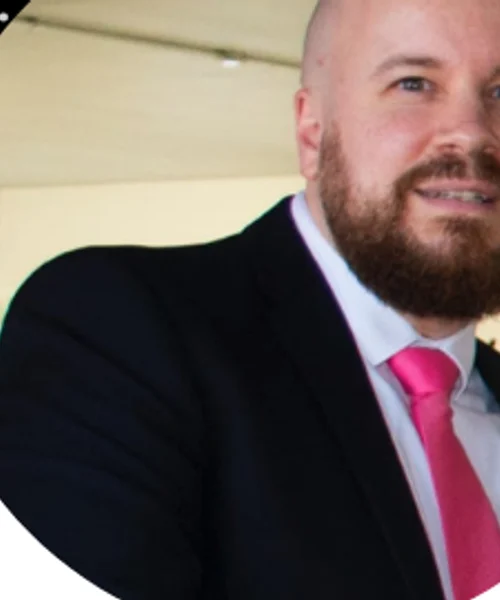
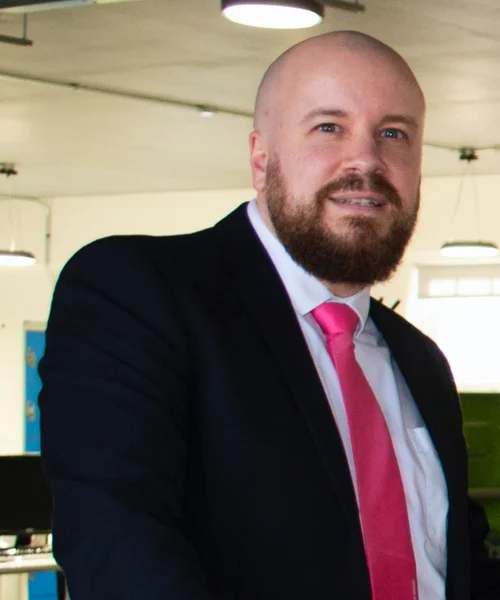
Steve natural office photo, Sana recentered, Andrew/Rob contain, wide entries wider
Steve — swapped to the natural office photo (/tmp/gv-photos/steve.jpg,
pink tie, office bg) with sharp attention crop so his face is centered
and unclipped. The banner extract was cropping half his face.

Sana — regenerated the source extract centered on her face
(left: 625, top: 785, 400x400) instead of the previous left-of-frame
crop. She now sits centered in the card.

Andrew + Rob — added fit: "contain" so their whole face + shoulders
show inside the desktop card (was cover, cropping heads). Andrew also
uses pos: "center top" so the fit anchors his head high.

Reece and other wide entries (Vish, Kieran, Jaz) — new .slide-wide
class on the article. On desktop that gives the media column 55% flex
basis (was 38%) so the collage/paired-image photo takes more of the
card width and reads bigger.

diff --git a/app/page.tsx b/app/page.tsx
@@ -100,13 +100,13 @@ const QUOTES: Quote[] = [
   { photo: "/images/steve-want.webp", fit: "contain", name: "Steve Want", role: "Creative Brand Designer, PET-Xi Training",
     metric: "Five months · off the sofa and onto the trampoline with his four-year-old",
     quote: "My energy levels have gone through the roof." },
-  { photo: "/images/andrew-thompson.webp", fit: "contain", name: "Andrew Thompson", role: "Head of UK Water, Fingleton White",
+  { photo: "/images/andrew-thompson.webp", fit: "contain", pos: "center top", name: "Andrew Thompson", role: "Head of UK Water, Fingleton White",
     metric: "14kg off in seven months · running faster in his forties than his thirties",
     quote: "Long-term health is the ROI. This was life-changing for me." },
   { photo: "/images/ian-tilley.webp", name: "Ian Tilley", role: "Operations Manager, NG Bailey Midlands",
     metric: "13kg down in four months · higher energy, sharper focus · better business performance · more quality time with family",
     quote: "And it hasn't felt difficult." },
-  { photo: "/images/rob-allen-pugh.webp", name: "Rob Allen-Pugh", role: "Senior Manager, Nova Solar Renewables",
+  { photo: "/images/rob-allen-pugh.webp", fit: "contain", name: "Rob Allen-Pugh", role: "Senior Manager, Nova Solar Renewables",
     metric: "The all-or-nothing cycle, broken",
     quote: "My mentality with health and fitness used to be all or nothing before meeting George." },
   { photo: "/Testimonial pictures/Kieran - 1.webp", wide: true, name: "Kieran Kearns", role: "Senior Bid Manager, Frankham Group",
@@ -626,7 +626,7 @@ export default function Page() {
             </div>
             <Slider count={QUOTES.length} trackClassName="track-q">
               {QUOTES.map((q, i) => (
-                <article className={`slide${q.photo ? "" : " slide-nopic"}${q.desktopOnly ? " slide-desktop-only" : ""}`} key={i}>
+                <article className={`slide${q.photo ? "" : " slide-nopic"}${q.desktopOnly ? " slide-desktop-only" : ""}${q.wide ? " slide-wide" : ""}`} key={i}>
                   <div className="qc-media">
                     {q.photo && (
                       <div className={`qc-photo${q.wide ? " qc-photo-wide" : ""}`}>

diff --git a/app/globals.css b/app/globals.css
@@ -213,6 +213,8 @@ iframe.emb { width: 100%; aspect-ratio: 16/9; border: 0; display: block; }
 }
 .qc-media { background: #fff; display: flex; flex-direction: column; padding: 0; }
 @media (min-width: 820px) { .qc-media { flex: 0 0 38%; } }
+/* Wide entries (Vish, Kieran, Jaz, Reece) get more photo width on desktop */
+@media (min-width: 820px) { .slide-wide .qc-media { flex: 0 0 55%; } }
 /* Photo aspect: square on mobile (compact, face visible), portrait 4:5 on
    desktop (more editorial). Wide collages stay 1:1 at every breakpoint.
    White background so bg-removed portraits blend seamlessly with .qc-media */
